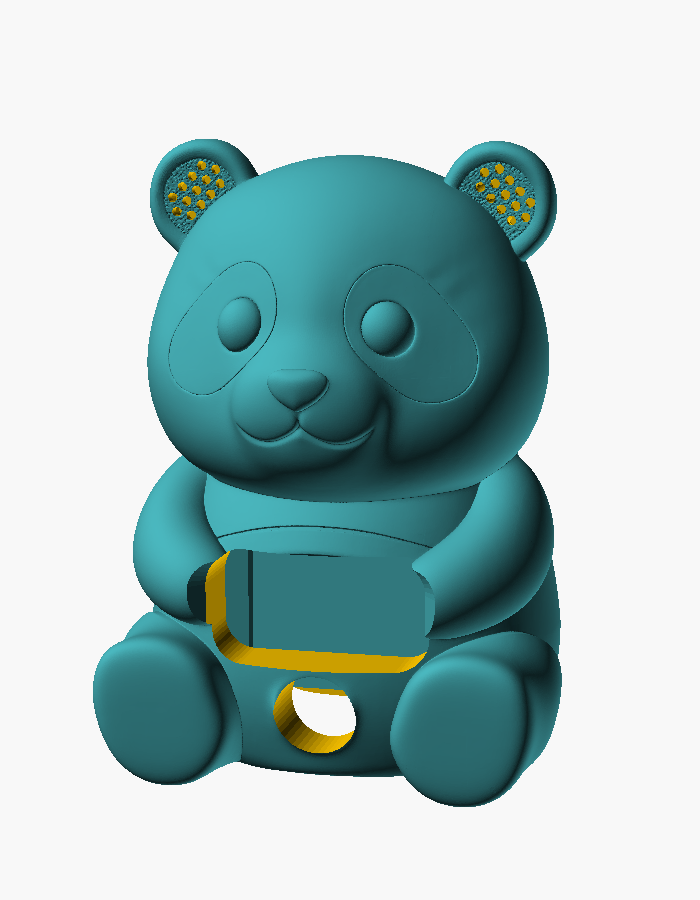
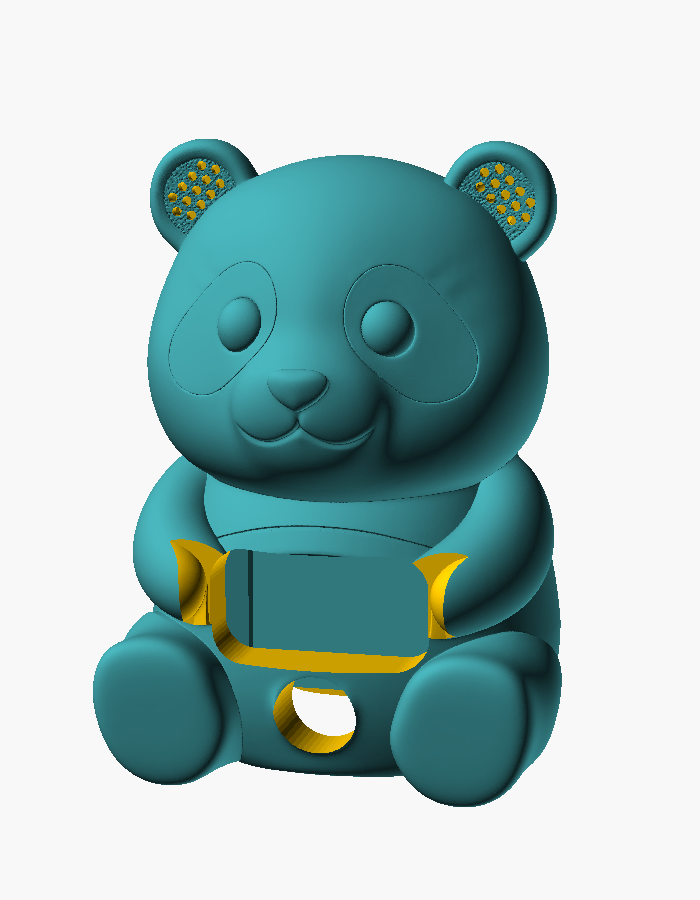
Shorten the arms off the screen; give the magnets a body-side half
ARMS. The window's side edges were cutting ~8mm into each folded paw, leaving a
10mm-deep slice wall; bevelling only softened it. Shorten the arms instead, by
intersecting the body with a copy of the SCULPT ITSELF shifted outboard by
arm_shift. Where the shifted copy is less proud the arm is trimmed, where it is
more proud nothing happens, so each arm's inboard flank retreats wearing its own
natural end shape. Raycast says the worst overlap was 7.7mm at Z49..54, so
arm_shift 9 lands the tip on the window edge: the skin just outside the aperture
is now Y54 against a plaque face of Y52.4..53.6, i.e. a 0.4..2.2mm step instead of
9.5mm. The arms die out AT the screen's edge rather than being cut by it.

The trick is arm_ymin. A bare shift also eroded the armpit valley and the
arm/belly crease - all at Y44..53 - opening an 8mm trench from shoulder to screen.
Restricting the trim to skin proud of Y54 protects those creases, and the flat
Y=arm_ymin fallback only ever lands where the copy's skin is under 54, which is
inside the aperture and cut away regardless. So every remaining visible surface is
the copy's own skin. Measured removal is confined to Z41..62 x |X|27..32 and is
exactly 0 on every face of the zone box, so there is nothing to hide. Normals
verified outward through the trimmed band.

MAGNETS. They had no body-side half at all, and could not have had one: all four
sat at |X|37.5 inside the base hatch (|X|<=40.5, Y -23..43), which removes the
[…]

Changed region(s): [[0.57, 0.5911, 0.66, 0.7156], [0.24, 0.5911, 0.33, 0.7156]]

diff --git a/docs/ASSEMBLY.md b/docs/ASSEMBLY.md
@@ -192,19 +192,27 @@ in `src/Buttons.cpp` - see the end of [`WIRING.md`](WIRING.md).
 
 ### Retention
 
-Magnets in the sled's rear corners, plain **steel washers** recessed into the
-body behind them. Using washers rather than a second set of magnets halves the
-parts and makes it impossible to get polarity wrong - a mistake that is
-unfixable once the magnets are glued in.
+**4 magnet PAIRS** (Ø5 x 3 mm), pockets in printed plastic on both halves, press
+fit + a drop of CA. They live on the cage's **base flange**, which drops into a
+rebate counterbored into the panda's base (`panda_base_rebate()`); the pairs meet
+on the flange's **top face**, cage magnet looking up and body magnet recessed into
+the rebate's ceiling looking down, so the two faces touch with nothing between
+them. That matters: with a plastic wall between them a Ø5x3 pair holds ~0.4 N in
+shear, touching it is ~2 N, so 4 pairs give ~8 N against a ~2 N cage.
+
+Positions are `mag_pos` in `dimensions.scad` - a front pair out over the feet and
+a side pair over the base's side collar. They **must** sit outboard of the base
+hatch: the hatch removes the body exactly where an earlier version put them, so
+they had nothing to attract at all.
 
 Pockets are modelled `magnet_fit` (0.05 mm) undersize per side for a press fit,
-with `magnet_wall` (0.8 mm) of material left over the top so they stay hidden.
-If a pocket prints loose, a drop of cyanoacrylate is fine - but push the magnet
-in **before** the glue grabs, because a magnet stuck half-in is not coming out.
+and bottom out on 1.2 mm of backing (`rim_h - magnet_t`) so a magnet cannot be
+pushed through. If a pocket prints loose, CA is fine - but push the magnet in
+**before** the glue grabs, because a magnet stuck half-in is not coming out.
 
-Two 6 x 3 mm N42 discs give a firm hold with a deliberate tug. Start with two;
-add the second pair only if it feels loose, because too much holding force makes
-the clock lift off the table when you pull the sled.
+**CHECK POLARITY on every pair before gluing.** Offer each magnet to its partner,
+let it attract, mark that face, and glue it that way round. A reversed magnet
+repels and will hold the cage off its seat.
 
 ### Guiding
 
